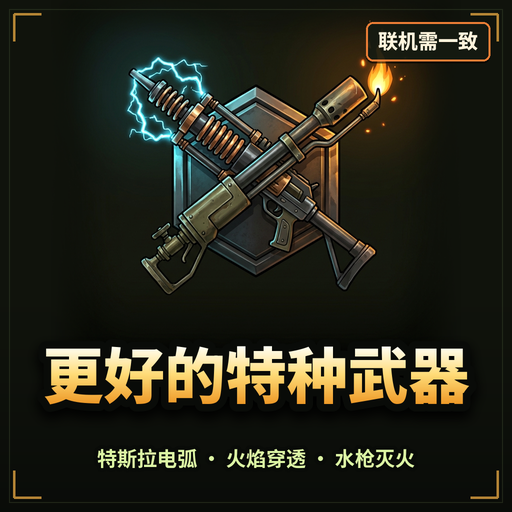
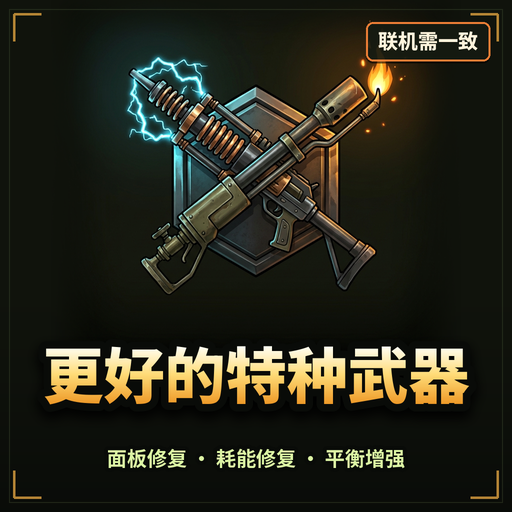
v1.3.0-r2: 50Hz (3000 RPM) Tesla & Laser, corridor-first auto-aim & torso beam lock, updated cover subtitle & docs

Changed region(s): [[0.1875, 0.875, 0.8125, 0.9375]]

diff --git a/src/BeamWeaponPatches.cs b/src/BeamWeaponPatches.cs
@@ -65,7 +65,7 @@ namespace ZedZone.BetterSpecialWeapons
         /// </summary>
         internal static bool TryConsumePulse(BasicRangedWeapon weapon, float interval, out float effectiveInterval, out float pulseCountScale)
         {
-            effectiveInterval = Mathf.Clamp(interval, 0.015f, 0.25f);
+            effectiveInterval = Mathf.Clamp(interval, 0.005f, 0.25f);
             pulseCountScale = 1f;
 
             var tracker = GetOrCreate(weapon);
@@ -197,6 +197,7 @@ namespace ZedZone.BetterSpecialWeapons
 
                 // 与原版 BasicTeslaWeapon.UpdateFiring 保持完全一致的射线起点（扣除角色站立高度投影）
                 Vector2 rayOrigin = new Vector2(gunPos3.x, gunPos3.y - standHeight);
+                Vector2 gunPos = new Vector2(gunPos3.x, gunPos3.y);
 
                 Vector2 seg = __result - rayOrigin;
                 float segLen = seg.magnitude;
@@ -219,14 +220,18 @@ namespace ZedZone.BetterSpecialWeapons
                 Vector2 bestPos = __result;
                 BasicCharacterController bestVictim = null;
 
-                // 优先级 1：准星附近（snapRadius 半径内）自动索敌，优先锁定距准星最近且无墙体/前排遮挡的敌人
-                var nearHits = Physics2D.OverlapCircleAll(cursorAnchor, snapRadius, charHitMask);
-                if (nearHits != null && nearHits.Length > 0)
+                // 优先级 1：沿“枪口/投影 → 准星”走廊扫掠，始终优先锁定路线前方最近且无墙体遮挡的敌人（避免跨怪电地板）
+                Vector2 visSeg = cursorAnchor - gunPos;
+                float visLen = visSeg.magnitude;
+                Vector2 visDir = visLen > 0.05f ? visSeg / visLen : dir;
+
+                var corridorHits = Physics2D.CircleCastAll(rayOrigin, snapRadius, dir, searchAnchorDist, charHitMask);
+                if (corridorHits != null && corridorHits.Length > 0)
                 {
-                    float bestCursorDistSq = float.PositiveInfinity;
-                    for (int i = 0; i < nearHits.Length; i++)
+                    float bestAlong = float.PositiveInfinity;
+                    for (int i = 0; i < corridorHits.Length; i++)
                     {
-                        var col = nearHits[i];
+                        var col = corridorHits[i].collider;
                         if (col == null) continue;
                         if (attackerTransform != null && col.transform.IsChildOf(attackerTransform))
                             continue;
@@ -240,79 +245,73 @@ namespace ZedZone.BetterSpecialWeapons
 
                         Bounds bounds = col.bounds;
                         Vector2 colCenter = new Vector2(bounds.center.x, bounds.center.y);
-                        float distFromOrigin = Vector2.Distance(rayOrigin, colCenter);
-                        if (distFromOrigin < 0.10f || distFromOrigin > maxWeaponRange + 0.5f)
+                        Vector2 rel = colCenter - rayOrigin;
+
+                        float along = Vector2.Dot(rel, dir);
+                        if (along < 0.08f || along > searchAnchorDist + 0.35f)
                             continue;
 
-                        float cursorDistSq = (colCenter - cursorAnchor).sqrMagnitude;
-                        if (cursorDistSq >= bestCursorDistSq)
+                        float perpGround = Mathf.Abs(rel.x * dir.y - rel.y * dir.x);
+                        Vector2 relVis = colCenter - gunPos;
+                        float alongVis = Vector2.Dot(relVis, visDir);
+                        float perpVis = (alongVis >= -0.25f && alongVis <= visLen + 0.5f)
+                            ? Mathf.Abs(relVis.x * visDir.y - relVis.y * visDir.x)
+                            : float.PositiveInfinity;
+                        float minPerp = Mathf.Min(perpGround, perpVis);
+
+                        float colAllowance = Mathf.Min(0.45f, Mathf.Max(bounds.extents.x, bounds.extents.y));
+                        if (minPerp > snapRadius + colAllowance)
+                            continue;
+
+                        if (along >= bestAlong)
                             continue;
 
                         if (!VerifyBeamHitsVictim(rayOrigin, colCenter, attacker, attackerTransform, victimPtr, bulletMask))
                             continue;
 
-                        bestCursorDistSq = cursorDistSq;
+                        bestAlong = along;
                         bestPos = colCenter;
                         bestVictim = victim;
                     }
                 }
 
-                // 优先级 2：若准星圈内无可选目标，沿“枪口投影 → 准星锚点”走廊扫掠，优先锁定前方最近目标
+                // 优先级 2：走廊内无目标时，搜索准星周围 snapRadius 半径内最近的可命中敌人
                 if (bestVictim == null)
                 {
-                    float maxDist = searchAnchorDist;
-                    int wallOnlyMask = bulletMask & ~SpecialWeaponHelper.GetAllCharactersLayerMask();
-                    if (wallOnlyMask != 0)
+                    var nearHits = Physics2D.OverlapCircleAll(cursorAnchor, snapRadius, charHitMask);
+                    if (nearHits != null && nearHits.Length > 0)
                     {
-                        RaycastHit2D wallHit = Physics2D.Raycast(rayOrigin, dir, maxDist, wallOnlyMask);
-                        if (wallHit.collider != null && wallHit.distance < maxDist)
-                            maxDist = wallHit.distance;
-                    }
-
-                    if (maxDist >= 0.20f)
-                    {
-                        float raySnapRadius = snapRadius * 0.75f;
-                        var hits = Physics2D.CircleCastAll(rayOrigin, raySnapRadius, dir, maxDist, charHitMask);
-                        if (hits != null && hits.Length > 0)
+                        float bestCursorDistSq = float.PositiveInfinity;
+                        for (int i = 0; i < nearHits.Length; i++)
                         {
-                            float bestAlong = float.PositiveInfinity;
-                            for (int i = 0; i < hits.Length; i++)
-                            {
-                                var col = hits[i].collider;
-                                if (col == null) continue;
-                                if (attackerTransform != null && col.transform.IsChildOf(attackerTransform))
-                                    continue;
+                            var col = nearHits[i];
+                            if (col == null) continue;
+                            if (attackerTransform != null && col.transform.IsChildOf(attackerTransform))
+                                continue;
 
-                                var victim = BasicCharacterController.GetCharacterFromCollider(col);
-                                if (victim == null || victim.deadFlag) continue;
-                                IntPtr victimPtr = SpecialWeaponHelper.Ptr(victim);
-                                if (victimPtr == IntPtr.Zero || victimPtr == attackerPtr) continue;
-                                if (!BeamWeaponState.CanDamageTarget(attacker, victim))
-                                    continue;
+                            var victim = BasicCharacterController.GetCharacterFromCollider(col);
+                            if (victim == null || victim.deadFlag) continue;
+                            IntPtr victimPtr = SpecialWeaponHelper.Ptr(victim);
+                            if (victimPtr == IntPtr.Zero || victimPtr == attackerPtr) continue;
+                            if (!BeamWeaponState.CanDamageTarget(attacker, victim))
+                                continue;
 
-                                Bounds bounds = col.bounds;
-                                Vector2 colCenter = new Vector2(bounds.center.x, bounds.center.y);
-                                Vector2 rel = colCenter - rayOrigin;
+                            Bounds bounds = col.bounds;
+                            Vector2 colCenter = new Vector2(bounds.center.x, bounds.center.y);
+                            float distFromOrigin = Vector2.Distance(rayOrigin, colCenter);
+                            if (distFromOrigin < 0.08f || distFromOrigin > maxWeaponRange + 0.5f)
+                                continue;
 
-                                float along = Vector2.Dot(rel, dir);
-                                if (along < 0.10f || along > maxDist + raySnapRadius * 0.65f)
-                                    continue;
+                            float cursorDistSq = (colCenter - cursorAnchor).sqrMagnitude;
+                            if (cursorDistSq >= bestCursorDistSq)
+                                continue;
 
-                                float perp = Mathf.Abs(rel.x * dir.y - rel.y * dir.x);
-                                float colAllowance = Mathf.Min(0.45f, Mathf.Max(bounds.extents.x, bounds.extents.y));
-                                if (perp > raySnapRadius + colAllowance)
-                                    continue;
+                            if (!VerifyBeamHitsVictim(rayOrigin, colCenter, attacker, attackerTransform, victimPtr, bulletMask))
+                                continue;
 
-                                if (along >= bestAlong)
-                                    continue;
-
-                                if (!VerifyBeamHitsVictim(rayOrigin, colCenter, attacker, attackerTransform, victimPtr, bulletMask))
-                                    continue;
-
-                                bestAlong = along;
-                                bestPos = colCenter;
-                                bestVictim = victim;
-                            }
+                            bestCursorDistSq = cursorDistSq;
+                            bestPos = colCenter;
+                            bestVictim = victim;
                         }
                     }
                 }
@@ -380,11 +379,13 @@ namespace ZedZone.BetterSpecialWeapons
     }
 
     /// <summary>
-    /// 本帧已由 GetAimingPoint 锁定目标时，把视觉电弧终点齐平吸附至锁定目标的躯干中心，避免电弧视觉落在目标脚底或擦边地板上。
+    /// 本帧锁定或命中敌人时，把视觉电弧终点无条件锁在目标躯干中心，避免落到脚底或擦边地面导致穿模错觉。
     /// </summary>
     [HarmonyPatch(typeof(BasicTeslaWeapon), nameof(BasicTeslaWeapon.UpdateLaserPoint), typeof(Vector3), typeof(Vector3))]
     internal static class Patch_BasicTeslaWeapon_UpdateLaserPoint
     {
+        private const int CharacterLayer = 9;
+
         [HarmonyPrefix]
         private static void Prefix(BasicTeslaWeapon __instance, ref Vector3 endPoint)
         {
@@ -401,8 +402,45 @@ namespace ZedZone.BetterSpecialWeapons
                 if (tracker.LockedFrame == Time.frameCount && victim != null && !victim.deadFlag)
                 {
                     Vector3 torso = victim.GetTorsePositionOrRoot();
-                    if (Vector2.Distance(new Vector2(endPoint.x, endPoint.y), new Vector2(torso.x, torso.y)) <= 2.4f)
-                        endPoint = new Vector3(torso.x, torso.y, endPoint.z);
+                    endPoint = new Vector3(torso.x, torso.y, endPoint.z);
+                    return;
+                }
+
+                // 若未经磁吸而由原版射线直接命中的敌人，按命中点兜底反查角色并锁到躯干
+                var attacker = __instance.character;
+                Transform attackerTransform = attacker != null ? attacker.transform : null;
+                IntPtr attackerPtr = SpecialWeaponHelper.Ptr(attacker);
+                Vector2 end2 = new Vector2(endPoint.x, endPoint.y);
+                var hits = Physics2D.OverlapCircleAll(end2, 0.25f, 1 << CharacterLayer);
+                if (hits == null || hits.Length == 0) return;
+
+                BasicCharacterController best = null;
+                float bestSq = float.PositiveInfinity;
+                for (int i = 0; i < hits.Length; i++)
+                {
+                    var col = hits[i];
+                    if (col == null) continue;
+                    if (attackerTransform != null && col.transform.IsChildOf(attackerTransform))
+                        continue;
+                    var ch = BasicCharacterController.GetCharacterFromCollider(col);
+                    if (ch == null || ch.deadFlag) continue;
+                    IntPtr ptr = SpecialWeaponHelper.Ptr(ch);
+                    if (ptr == IntPtr.Zero || ptr == attackerPtr) continue;
+                    if (!BeamWeaponState.CanDamageTarget(attacker, ch)) continue;
+
+                    Bounds b = col.bounds;
+                    float sq = (new Vector2(b.center.x, b.center.y) - end2).sqrMagnitude;
+                    if (sq < bestSq)
+                    {
+                        bestSq = sq;
+                        best = ch;
+                    }
+                }
+
+                if (best != null)
+                {
+                    Vector3 torso = best.GetTorsePositionOrRoot();
+                    endPoint = new Vector3(torso.x, torso.y, endPoint.z);
                 }
             }
             catch (Exception ex)
@@ -435,8 +473,11 @@ namespace ZedZone.BetterSpecialWeapons
                 if (!BeamWeaponState.CanDamageTarget(__instance.character, victim))
                     return false;
 
-                // 每帧维持主目标指针，确保原版链式传导 UpdateChain 电弧不断链
+                // 每帧维持主目标指针，确保原版链式传导 UpdateChain 电弧不断链，同时同步供 UpdateLaserPoint 锁躯
                 __instance.m_beamCharacter = victim;
+                var hitTracker = BeamWeaponState.GetOrCreate(__instance);
+                hitTracker.LockedVictim = victim;
+                hitTracker.LockedFrame = Time.frameCount;
 
                 float pulseInterval = SpecialWeaponHelper.GetTeslaFireInterval();
                 if (!BeamWeaponState.TryConsumePulse(__instance, pulseInterval, out float effectiveInterval, out float pulseCountScale))

diff --git a/src/Plugin.cs b/src/Plugin.cs
@@ -80,18 +80,18 @@ namespace ZedZone.BetterSpecialWeapons
                 "输出详细调试日志到 BepInEx\\LogOutput.log。");
 
             EnableTeslaRework = Config.Bind("TeslaGun_467", "Enabled", true,
-                "启用特斯拉枪（467）帧率无关高频脉冲、链式同步与电弧微幅磁吸。");
-            TeslaDamagePerTick = Config.Bind("TeslaGun_467", "DamagePerTick", 60f,
-                new ConfigDescription("特斯拉枪每次电击的基础伤害（配合默认 30 次/秒 -> 1,800 基础单体 DPS，3 链导电最高约 4,220 DPS）。",
+                "启用特斯拉枪（467）帧率无关高频脉冲、链式同步与电弧自动索敌。");
+            TeslaDamagePerTick = Config.Bind("TeslaGun_467", "DamagePerTick", 36f,
+                new ConfigDescription("特斯拉枪每次电击的基础伤害（配合默认 50 次/秒 -> 1,800 基础单体 DPS，3 链导电最高约 4,220 DPS）。",
                     new AcceptableValueRange<float>(5f, 2000f)));
-            TeslaFireRateHz = Config.Bind("TeslaGun_467", "FireRateHz", 30f,
-                new ConfigDescription("特斯拉枪每秒电击次数（Hz，范围 10 ~ 60，默认 30；主光束与连锁电弧同频触发，并同步至武器面板射速）。",
-                    new AcceptableValueRange<float>(10f, 60f)));
+            TeslaFireRateHz = Config.Bind("TeslaGun_467", "FireRateHz", 50f,
+                new ConfigDescription("特斯拉枪每秒电击次数（Hz，范围 10 ~ 100，默认 50 即面板 3,000 RPM；主光束与连锁电弧同频触发并同步至面板射速）。",
+                    new AcceptableValueRange<float>(10f, 100f)));
             TeslaChainFalloff = Config.Bind("TeslaGun_467", "ChainFalloff", 0.65f,
                 new ConfigDescription("特斯拉枪链式传导每一跳的伤害衰减系数（默认 0.65，与原版一致）。",
                     new AcceptableValueRange<float>(0.1f, 1.0f)));
             TeslaArcSnapRadius = Config.Bind("TeslaGun_467", "ArcMagneticSnapRadius", 1.8f,
-                new ConfigDescription("高压电弧自动索敌半径（米，范围 0 ~ 4.5，默认 1.8；设 0 关闭。优先锁定准星附近敌人，其次沿射线自动锁定前方目标，视觉电弧直接锁在目标躯干上）。",
+                new ConfigDescription("高压电弧自动索敌半径（米，范围 0 ~ 4.5，默认 1.8；设 0 关闭。优先沿枪口到鼠标的射线走廊自动锁定前方敌人，其次锁定准星附近目标，视觉电弧直接锁在目标躯干上）。",
                     new AcceptableValueRange<float>(0f, 4.5f)));
             TeslaStunChancePerSec = Config.Bind("TeslaGun_467", "StunChancePerSecond", 0.22f,
                 new ConfigDescription("特斯拉枪每秒触发电击硬直麻痹的等效概率（范围 0 ~ 1.0，默认 0.22，保持合理控场节奏）。",
@@ -102,12 +102,12 @@ namespace ZedZone.BetterSpecialWeapons
 
             EnableLaserRework = Config.Bind("MiningLaser_466", "Enabled", true,
                 "启用采矿激光器（466）帧率无关高频脉冲重做并保护原版采矿/拆墙效率。");
-            LaserDamagePerTick = Config.Bind("MiningLaser_466", "DamagePerTick", 80f,
-                new ConfigDescription("采矿激光器每次激光脉冲的基础伤害（配合默认 30 次/秒 -> 2,400 基础单体 DPS，纯单体高伤定位，对单超越特斯拉枪）。",
+            LaserDamagePerTick = Config.Bind("MiningLaser_466", "DamagePerTick", 48f,
+                new ConfigDescription("采矿激光器每次激光脉冲的基础伤害（配合默认 50 次/秒 -> 2,400 基础单体 DPS，纯单体高伤定位，对单超越特斯拉枪）。",
                     new AcceptableValueRange<float>(5f, 2000f)));
-            LaserFireRateHz = Config.Bind("MiningLaser_466", "FireRateHz", 30f,
-                new ConfigDescription("采矿激光器每秒伤害脉冲次数（Hz，范围 10 ~ 60，默认 30，并同步至武器面板射速）。",
-                    new AcceptableValueRange<float>(10f, 60f)));
+            LaserFireRateHz = Config.Bind("MiningLaser_466", "FireRateHz", 50f,
+                new ConfigDescription("采矿激光器每秒伤害脉冲次数（Hz，范围 10 ~ 100，默认 50 即面板 3,000 RPM，并同步至武器面板射速）。",
+                    new AcceptableValueRange<float>(10f, 100f)));
             LaserDeathMultiplier = Config.Bind("MiningLaser_466", "DeathMultiplier", 25f,
                 new ConfigDescription("采矿激光器命中目标的击杀/穿甲系数（原版误传为 bulletNumber=1，特斯拉为 50）。",
                     new AcceptableValueRange<float>(1f, 100f)));

diff --git a/src/SpecialWeaponHelper.cs b/src/SpecialWeaponHelper.cs
@@ -21,7 +21,7 @@ namespace ZedZone.BetterSpecialWeapons
         internal const float VanillaLaserTerrainDps = 600f;
         internal const float VanillaTeslaTerrainDps = 400f;
 
-        internal const float DefaultBeamFireRateHz = 30f;
+        internal const float DefaultBeamFireRateHz = 50f;
         internal const float DefaultLiquidInterval = 0.02f;
 
         internal static IntPtr Ptr(Il2CppObjectBase obj)
@@ -41,7 +41,7 @@ namespace ZedZone.BetterSpecialWeapons
         internal static float GetTeslaFireInterval()
         {
             float hz = Plugin.TeslaFireRateHz != null
-                ? Mathf.Clamp(Plugin.TeslaFireRateHz.Value, 10f, 60f)
+                ? Mathf.Clamp(Plugin.TeslaFireRateHz.Value, 10f, 100f)
                 : DefaultBeamFireRateHz;
             return 1f / hz;
         }
@@ -49,7 +49,7 @@ namespace ZedZone.BetterSpecialWeapons
         internal static float GetLaserFireInterval()
         {
             float hz = Plugin.LaserFireRateHz != null
-                ? Mathf.Clamp(Plugin.LaserFireRateHz.Value, 10f, 60f)
+                ? Mathf.Clamp(Plugin.LaserFireRateHz.Value, 10f, 100f)
                 : DefaultBeamFireRateHz;
             return 1f / hz;
         }

diff --git a/README.md b/README.md
@@ -1,30 +1,40 @@
 # Better Special Weapons / 更好的特种武器
 
-《隔离区》（ZED ZONE）特种武器底层修复与体验重做模组（BepInEx 6 IL2CPP，MIT 开源），针对原版 4 把特殊机理武器——**特斯拉枪（467）**、**采矿激光器（466）**、**M2 火焰喷射器（468）**与**高压喷水枪（469）**——彻底解决帧率依赖、耗电/耗液公式错误、假面板数值与喷射沿途无伤害等问题。
+《隔离区》（ZED ZONE）特种武器底层修复与体验重做模组（BepInEx 6 IL2CPP，MIT 开源），针对原版 4 把特殊机理武器——**特斯拉枪（467）**、**采矿激光器（466）**、**M2 火焰喷射器（468）**与**高压喷水枪（469）**——优先修复假面板数值、帧率依赖耗电耗液、长体型 Boss 零伤与喷射盲区等底层缺陷，并完成手感和功能平衡重构。
 
 - **前置依赖**：ZED ZONE Code Mod Loader（Steam Workshop ID: `3834614258`）
 - **多人联机说明**：本模组调整武器属性与伤害计算，**多人联机需房主与所有客户端一致安装**（敌方喷火丧尸与机甲武器完全不受影响）。
 
 ---
 
-## 核心改动
+## 核心底层修复
 
-1. **特斯拉枪（467）**
-   - **高频脉冲 + 通用面板同步**：默认改为 **`60` 单次伤害 × `30` 次/秒**（总基础单体 DPS `1,800`，3 链导电最高约 `4,220` DPS），主光束与连锁电弧同频触发，面板直接同步显示真实伤害与射速（面板攻速 `1,800` 对应每分钟脉冲数），完全脱离渲染帧率影响；每一跳均稳定越过原版受击硬直门槛（`10`）。
-   - **大范围自动锁敌与躯干视觉锁定**：单目标连锁锁定模式，沿“枪口 → 鼠标”方向提供宽范围电弧自动索敌（默认 `1.8m`，可在 `0 ~ 4.5m` 间调节或设为 `0` 关闭）：优先锁定准星附近无墙遮挡的敌人，其次沿射击走廊自动捕捉前方目标，同时将视觉电弧端点直接锁定在被命中敌人的躯干中心，避免指向敌方脚底或穿模击打地面。
-   - **耗电与环境破坏**：按真实流逝时间严格执行标称 `50/s` 耗电；对树木/石头等环境物体破坏默认保持 `1.0×` 原版基准，支持在配置中按需调低。
-2. **采矿激光器（466）**
-   - **高频脉冲 + 穿甲修复**：默认改为 **`80` 单次伤害 × `30` 次/秒**（纯单体高伤定位，基础单体 DPS `2,400`，对单高于特斯拉枪），同步面板显示，修复原版命中角色误传 `deathMultiplier = 1` 的问题，同时完整保留原版挖矿与拆墙效率。
-3. **M2 火焰喷射器（468）与高压喷水枪（469）**
-   - **全路径穿透与贴脸盲区修复**：解决原版复用抛射爆炸组件导致“火舌/水柱穿过近处或完全贴脸丧尸却只有鼠标落点才起效”的问题。在枪口近身盲区及沿途走廊同步判定命中：喷火器火舌从贴脸到射程沿途穿透灼烧并点燃目标，自动排除落点爆炸圆内目标以避免双倍叠伤，遇到实心墙体自动截断。
-   - **高压喷水枪击退与全场景灭火**：新增按目标质量自适应的速度击退（普通丧尸击退明显，重型 Boss 抗击退更强）与 4 层灭火机制——自动扑灭沿途与落点半径（默认 `2.2m`）内的地面火焰、燃烧物体、燃烧尸体、体素火以及角色燃烧状态（含友军与自身），并附带灭火音效与水渍抑制复燃。
-   - **真实时间耗液与诚实面板**：修复按固定 60 帧扣液 Bug，改为严格按真实时间消耗；直伤 DPS 稳定可配（喷火器默认 `1,400` + 原版燃烧 DoT，水枪默认 `120`；面板攻速显示 `3,000` 即 `60 / 0.02s = 3,000 RPM` 连续喷射频率）。
+1. **真实面板同步（所见即所得）**：原版光束与液体武器面板显示的单发伤害与实际每帧 DPS 严重脱节。本模组按真实高频射速换算并同步 `damage` 与 `fireInterval`（例如 `3,000 RPM` 即 `60 / 0.02s` = 每秒 50 次连续判定）。
+2. **帧率无关伤害与耗电/耗液修复**：修复原版光束随渲染帧乱跳伤害、电量公式漏扣、以及喷火器/水枪按固定 60 帧扣液的 Bug，严格按真实流逝时间消耗能源/燃料/水量并恒定输出。
+3. **喷射盲区与多部位 Boss 零伤修复**：原版爆炸圆仅按目标根节点距离判定且撞前排即截断，导致变异巨蜥等长体型 Boss 命中头尾不掉血、贴脸僵尸吃不到伤害。
 
 ---
 
-## 配置文件
+## 各武器具体改动
 
-首次启动游戏后自动生成：`BepInEx/config/zedzone.betterspecialweapons.cfg`，所有伤害、攻速、磁吸半径、穿透开关与消耗倍率均可自由调整。
+1. **特斯拉枪（467）**
+   - **高频同频脉冲**：改为 **`36` 单次伤害 × `50` 次/秒**（面板显示 `3,000` 攻速，基础单体 DPS `1,800`，3 链导电最高约 `4,220` DPS），主光束与连锁电弧同频触发并同步至面板，每一跳稳定越过受击硬直门槛（`10`）。
+   - **走廊优先索敌 + 躯干视觉锁定**：单目标连锁锁定模式，沿“枪口 → 鼠标”方向提供大范围自动索敌（默认 `1.8m`，可在 `0 ~ 4.5m` 调节或设为 `0` 关闭）：优先锁定射击走廊前方最近且无墙遮挡的敌人，其次抓取准星周围目标；视觉电弧末端直接锁定敌方躯干中心，避免跨怪指向地板造成穿模错觉。
+   - **耗电与环境破坏**：按真实时间严格执行标称 `50/s` 耗电；树木/岩石等环境破坏默认保持 `1.0×` 原版基准，支持配置调低。
+2. **采矿激光器（466）**
+   - **纯单体高伤脉冲 + 穿甲修复**：改为 **`48` 单次伤害 × `50` 次/秒**（面板显示 `3,000` 攻速，基础单体 DPS `2,400`，对单定位高于特斯拉枪），修复命中角色误传 `deathMultiplier = 1` 的缺陷（可配，默认 `25`），同时完整保留原版挖矿与拆墙效率。
+3. **M2 火焰喷射器（468）**
+   - **全路径穿透与贴脸盲区修复**：补齐枪口近身环形检测与枪口到落点前的火舌穿透灼烧并点燃目标，贴脸及中段丧尸都能吃满伤害；自动排除落点爆炸圆内目标避免双倍叠伤，遇到实心墙体自动截断。
+   - **诚实面板与真实油耗**：直伤 DPS 默认 `1,400`（对应 `3,000 RPM` 下单团 `28` 直伤 + 原版燃烧 DoT），可在配置中自由调整，按真实时间扣燃料。
+4. **高压喷水枪（469）**
+   - **真实耗水与诚实面板**：修正按帧乱扣水量的 Bug，默认 `120` 直伤 DPS（定位功能型辅助武器）。
+   - **质量自适应击退 + 全场景 4 层灭火**：新增按目标刚体质量自适应的速度击退（普通丧尸击退明显，重型 Boss 抗击退更强）与 4 层灭火机制——自动扑灭沿途与落点半径（默认 `2.2m`）内的角色燃烧状态（含友军与自身）、地面火焰并铺设水渍抑制复燃、燃烧物体与尸体、体素屋顶/墙体火焰，并附带原版灭火音效。
+
+---
+
+## 配置文件与建议
+
+首次启动游戏后自动生成：`BepInEx/config/zedzone.betterspecialweapons.cfg`，所有伤害、攻速（`10 ~ 100 Hz`）、索敌半径、穿透开关、击退与灭火半径、耗电/耗液倍率均可按需调整。欢迎在 Steam 创意工坊或 GitHub Issues 提出手感建议与反馈！
 
 ## 源码构建
 
